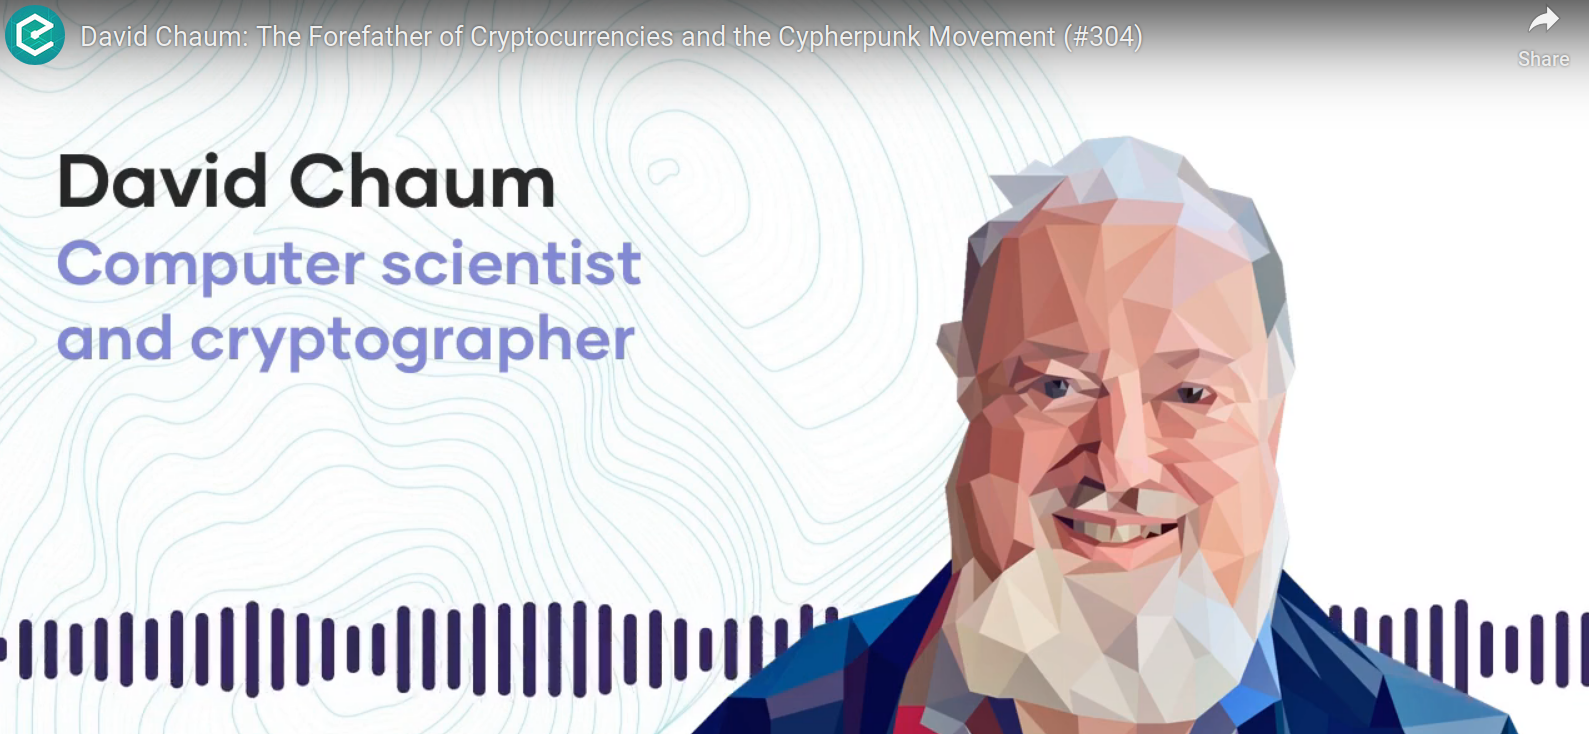
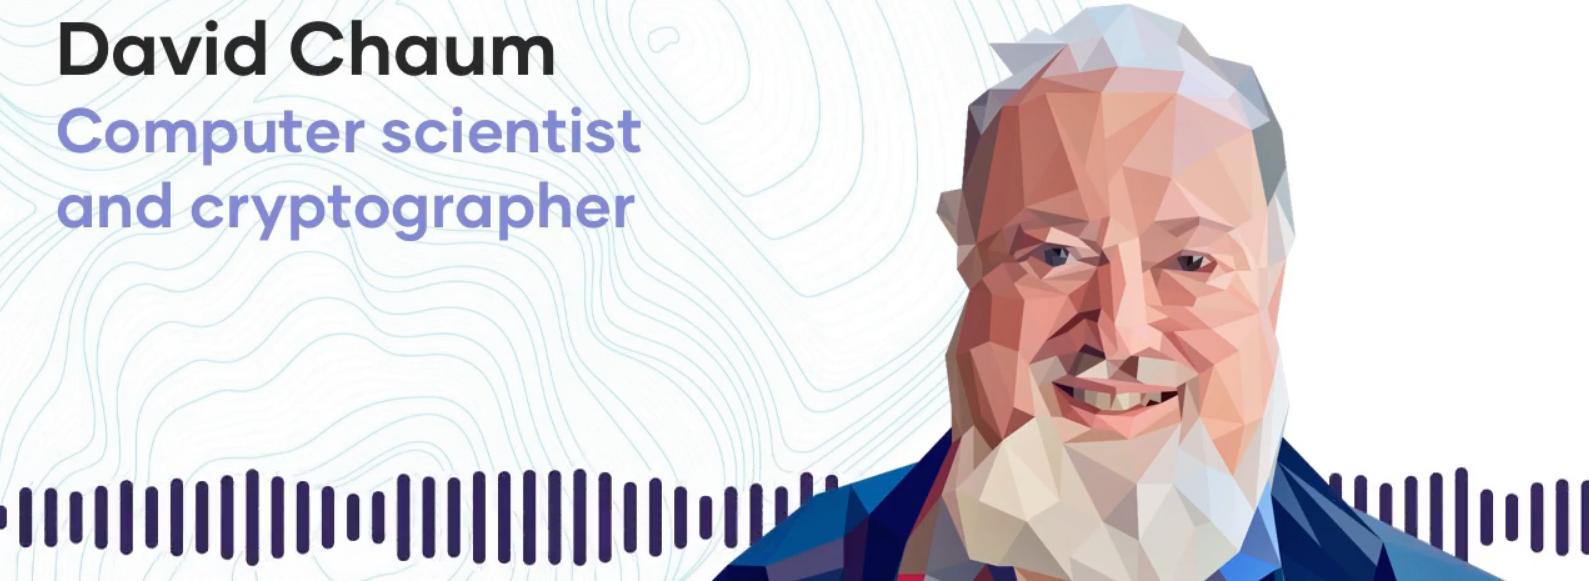
update

diff --git a/_posts/history/pre-history/2019-11-13-chaum-forefather-cryptocurrencies-cypherpunk-movement.md b/_posts/history/pre-history/2019-11-13-chaum-forefather-cryptocurrencies-cypherpunk-movement.md
@@ -8,8 +8,8 @@ classes: wide
 published: true
 header:
   image: "/images/bitcoin-history/david-chaum-cypherpunk-cryptocurrency.png"
-  teaser: "/images/bitcoin-history/david-chaum-cypherpunk-cryptocurrency.png"
-  og_image: "/images/bitcoin-history/david-chaum-cypherpunk-cryptocurrency.png"
+  teaser: "/images/bitcoin-history/david-chaum-cypherpunk-teaser.png"
+  og_image: "/images/bitcoin-history/david-chaum-cypherpunk-teaser.png"
   caption: "[David Chaum - The Forefather of Cryptocurrencies - Epicenter #304](https://epicenter.tv/episode/304/)"
 categories: ["History", "Transcripts"]
 tags: ["Cypherpunks", "Pre-History", "Chaum"]
